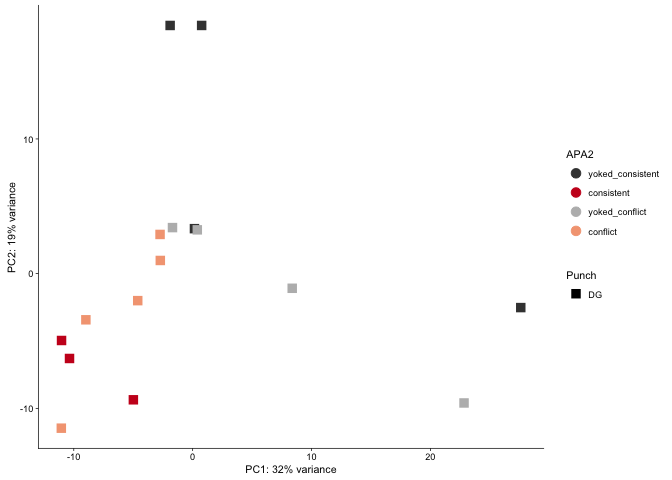
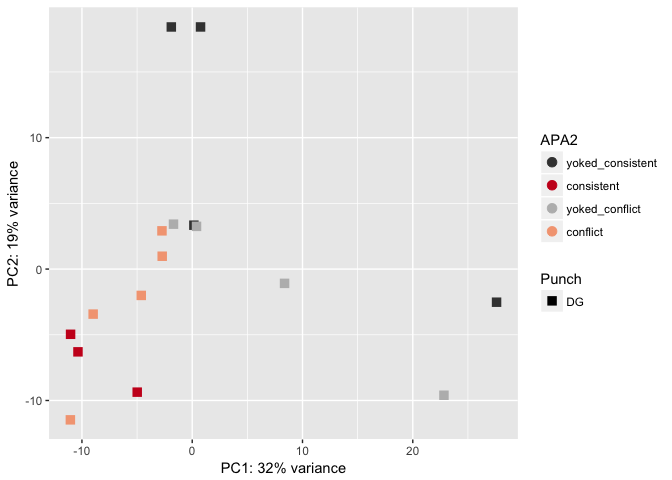
lotta pcas

diff --git a/RmdFiles/09_fordeep.md b/RmdFiles/09_fordeep.md
@@ -2,7 +2,6 @@ Load libraries, custom funcitons, and custom color schemes
 ----------------------------------------------------------
 
     library(ggplot2) ## for awesome plots!
-    library(cowplot) ## for some easy to use ggplot themes
     library(dplyr) ## for filtering and selecting rows
     library(DESeq2) ## for gene expression analysis
     library(genefilter)  ## for PCA fuction
@@ -36,17 +35,6 @@ Running DESeq2 will all the data
     dds <- DESeqDataSetFromMatrix(countData = countData,
                                   colData = colData,
                                   design = ~ Punch + APA2 + Punch*APA2)
-    dds # view the DESeq object - note numnber of genes
-
-    ## class: DESeqDataSet 
-    ## dim: 22485 44 
-    ## metadata(1): version
-    ## assays(1): counts
-    ## rownames(22485): 0610007P14Rik 0610009B22Rik ... Zzef1 Zzz3
-    ## rowData names(0):
-    ## colnames(44): 143A-CA3-1 143A-DG-1 ... 148B-CA3-4 148B-DG-4
-    ## colData names(8): RNAseqID Mouse ... APA APA2
-
     dds <- dds[ rowSums(counts(dds)) > 1, ]  # Pre-filtering genes with 0 counts
     dds # view number of genes after normalization and the number of samples
 
@@ -65,9 +53,9 @@ Running DESeq2 will all the data
 Principle component analysis on all the data.
 ---------------------------------------------
 
-PC1 and PC2 are signficant for tissue (aka "Punch") and explains 71% of
-the variation. PC4 is significant for behavioral treatment (aka "APA2")
-and explains 3% of the variation
+PC1 and PC2 are signficant for tissue (aka "Punch") and explains 50% and
+21%, respectively, of the variation. PC4 is significant for behavioral
+treatment (aka "APA2") and explains 3% of the variation
 
 The scatter plot of PC1 and PC2 nicely clusters the three tissues, but
 PC4 doesn't really give four clusters by treatment.
@@ -131,7 +119,6 @@ PC4 doesn't really give four clusters by treatment.
         xlab(paste0("PC1: ", percentVar[1],"% variance")) +
         ylab(paste0("PC2: ", percentVar[2],"% variance")) +
         scale_colour_manual(values=colorvalAPA00) + 
-        theme_cowplot(font_size = 8, line_size = 0.25)  +
         scale_shape_manual(values=c(15,16,17))
 
 ![](../figures/09_fordeep/pca_All-1.png)
@@ -141,7 +128,6 @@ PC4 doesn't really give four clusters by treatment.
         xlab(paste0("PC4: ", percentVar[4],"% variance")) +
         ylab(paste0("PC2: ", percentVar[2],"% variance")) +
         scale_colour_manual(values=colorvalAPA00) + 
-        theme_cowplot(font_size = 8, line_size = 0.25)  +
         scale_shape_manual(values=c(15,16,17))
 
 ![](../figures/09_fordeep/pca_All-2.png)
@@ -221,17 +207,6 @@ Here I focus on the DG samples.
     dds <- DESeqDataSetFromMatrix(countData = countData,
                                   colData = colData,
                                   design = ~ APA2)
-    dds # view the DESeq object - note numnber of genes
-
-    ## class: DESeqDataSet 
-    ## dim: 22485 16 
-    ## metadata(1): version
-    ## assays(1): counts
-    ## rownames(22485): 0610007P14Rik 0610009B22Rik ... Zzef1 Zzz3
-    ## rowData names(0):
-    ## colnames(16): 143A-DG-1 143B-DG-1 ... 148A-DG-3 148B-DG-4
-    ## colData names(8): RNAseqID Mouse ... APA APA2
-
     dds <- dds[ rowSums(counts(dds)) > 1, ]  # Pre-filtering genes with 0 counts
     dds # view number of genes afternormalization and the number of samples
 
@@ -299,7 +274,6 @@ only data.
         xlab(paste0("PC1: ", percentVar[1],"% variance")) +
         ylab(paste0("PC2: ", percentVar[2],"% variance")) +
         scale_colour_manual(values=colorvalAPA00) + 
-        theme_cowplot(font_size = 8, line_size = 0.25) +
         scale_shape_manual(values=c(15))
 
 ![](../figures/09_fordeep/PCA_DG-1.png)
